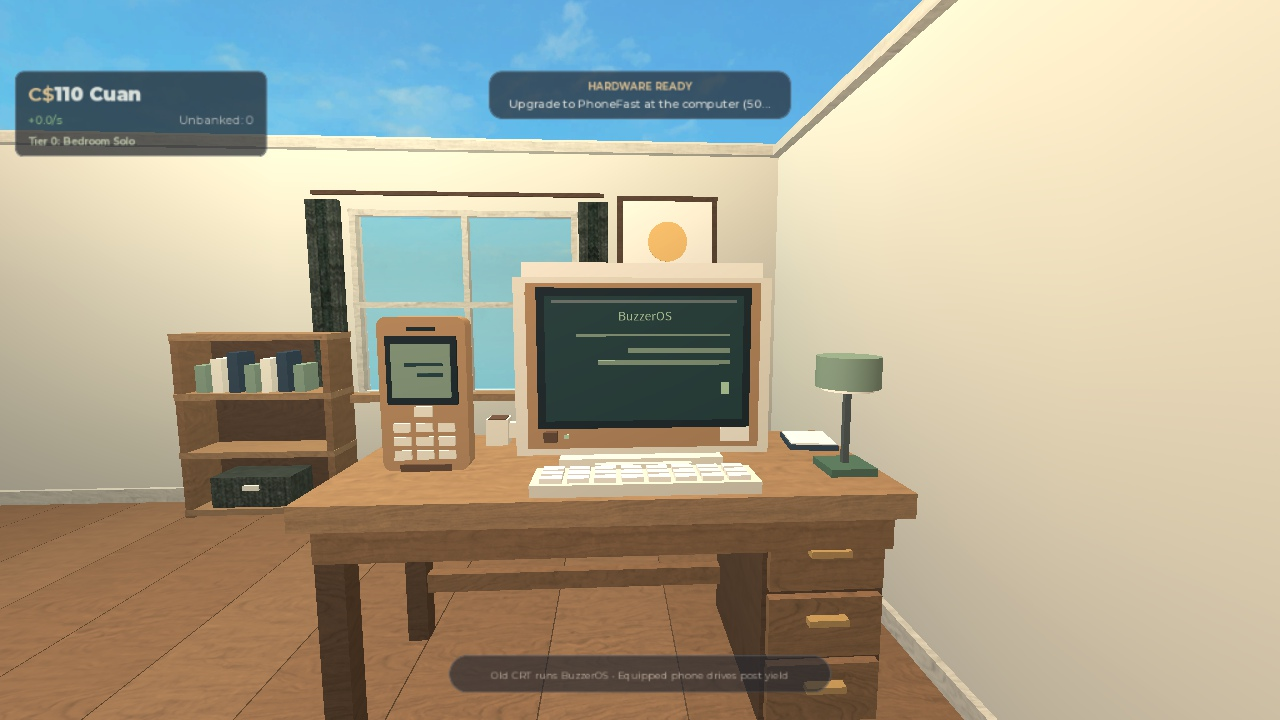
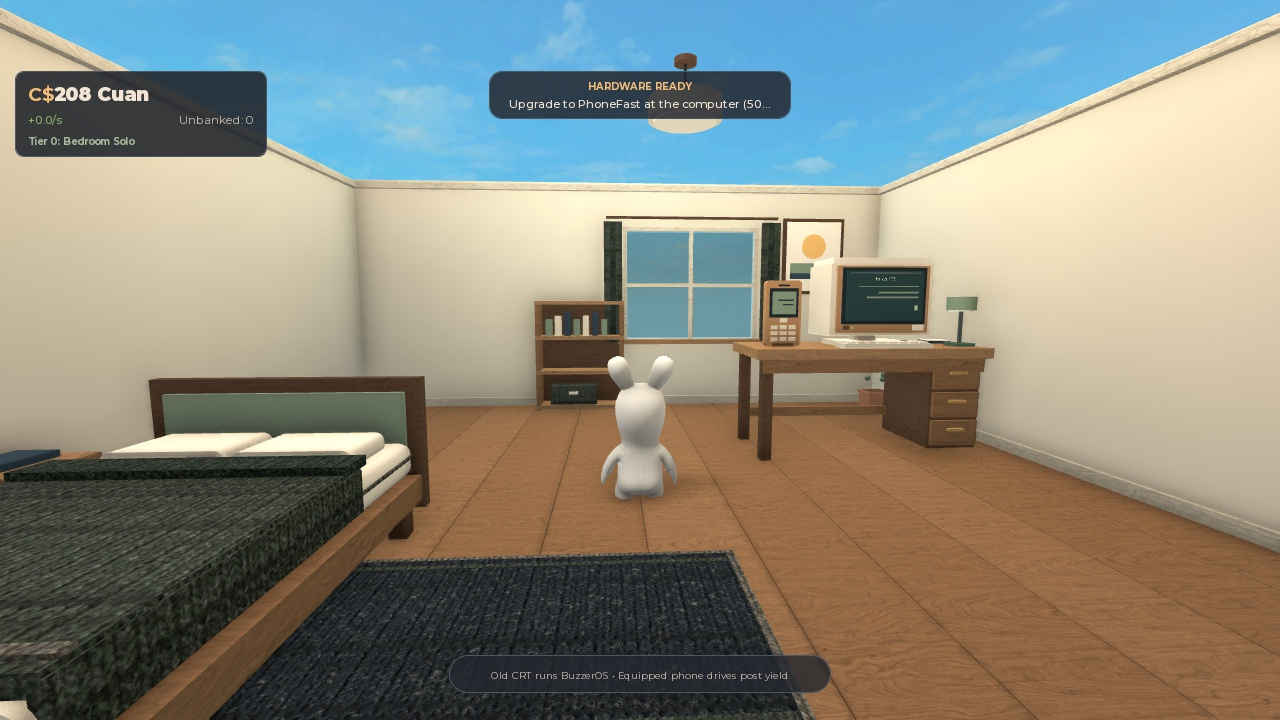
fix(BS-08): recapture 208-Cuan HUD and Your posts feed evidence, align campaign naming with public copy

diff --git a/docs/16-BS-08-ORGANIC-MISSION-COMPOSER.md b/docs/16-BS-08-ORGANIC-MISSION-COMPOSER.md
@@ -107,23 +107,25 @@ Total Test Cases: 606/606 passed (0 failed)
 
 All journeys were executed natively in Roblox Studio Play mode (`BuzzerSimulator.rbxlx`, Studio instance `0a8f603b-846a-4571-b5fa-b04f231696a0`):
 
+> Re-verification (2026-10-31, evidence cleanup): the full A→E sequence was re-run end-to-end in a fresh Studio Play session (instance `f5c4b9b0-cb68-4483-8d07-f3ead60c3ebf`, `build/BuzzerSimulator.rbxlx` rebuilt at `c22598c`), reproducing balances 15 → 30 → 110 → 119 → 128 → 208 Cuan with `completedMissions = 2` and camera restored to `Custom`. `buzzline-feed-desktop.jpg` and `world-hud-confirmed-income.jpg` were re-captured from this run; the other 12 screenshots and their digests are unchanged from the original capture run.
+
 ### Journey A: Organic Post Publication & Settlement
 - Player interacted with the bedroom CRT terminal via `ProximityPrompt`; camera smoothly tweened to `OldCRT` at `TerminalSlot`; BuzzerOS Desktop opened with status `Open`.
 - Navigated to the **Create** tab; selected Template 1 (`snack_meme`); preview updated; clicked **Publish organic post**.
 - Network command dispatched; single global pending slot activated (`postId = "post-1"`, `mode = "organic"`, `finalImpact = 120`, `organicCuan = 15`, `settleAt = publishedAt + 18s`).
 - In-flight progress bar tracked server reveal countdown across 18 seconds.
 - Server confirmed settlement: spendable balance updated from 0 to 15 Cuan; confirmed result banner rendered "+15 Cuan, 120 Impact, 4 Likes, 1 Replies".
-- Navigated to **Buzzline Feed** tab: confirmed post displayed at the top of the feed alongside authored community cards.
+- Navigated to the **Buzzline** tab and jumped to the **Your posts** section: the confirmed organic post card displayed under "Your confirmed posts / 1" with the player initials avatar ("You / confirmed post") and its confirmation line "Organic post: 120 impact / +15 Cuan confirmed".
 
 ### Journey B: Mission Acceptance & Separate Bonus Claim
-- Navigated to **Missions** tab; viewed available sponsorship briefing (*Food Stall Launch* by Sambal Juara, target 100 impact, 80 bonus Cuan).
+- Navigated to **Missions** tab; viewed available sponsorship briefing (*Warung Mie Orbit*, the public title of mission `food_stall_launch`; target 100 impact, 80 bonus Cuan).
 - Clicked **Accept campaign**; mission status transitioned to `accepted` (`runId = "run-2"`).
 - Selected campaign template 1 (`meal_meme`); published campaign post (`postId = "post-2"`); waited 18s for server reveal.
 - Organic payout credited immediately (+15 Cuan, balance = 30 Cuan); accumulated impact reached 120/100; mission transitioned to `readyToClaim`.
 - Clicked **Claim bonus (+80 Cuan)**; authoritative server snapshot updated balance from 30 to 110 Cuan; `completedMissions` incremented to 1; active mission cleared.
 
 ### Journey C: Multi-Post Campaign Run with Weak Guidance
-- Accepted campaign `run-3` (*Food Stall Launch*).
+- Accepted campaign `run-3` (*Warung Mie Orbit*).
 - Selected weak template (`queue_thread`, 75 impact, 9 Cuan); published and waited 18s.
 - Organic payout (+9 Cuan) credited (balance = 119 Cuan); accumulated impact reached 75/100; status remained `accepted`; UI displayed informative progress: "Goal in progress: 75 / 100 Impact. Publish another post to complete."
 - Selected weak template (`queue_thread`) a second time; published and waited 18s.
@@ -150,8 +152,8 @@ All 14 review screenshots were authentically captured in native Roblox Studio Pl
[10 lines of base64/hex data omitted]
@@ -159,7 +161,7 @@ All 14 review screenshots were authentically captured in native Roblox Studio Pl
[5 lines of base64/hex data omitted]
 
 *Viewport Emulation Disclosure:* Mobile viewports were authentically captured using `StudioDeviceSimulatorService` in edit mode (`iphone_14` preset, `ActualResolution` scaling, portrait $390\times 844$ and landscape $844\times 390$) followed by live Studio Play execution.
 
